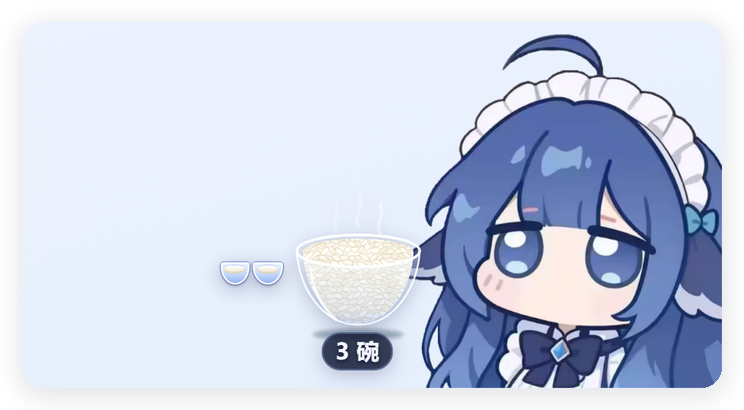
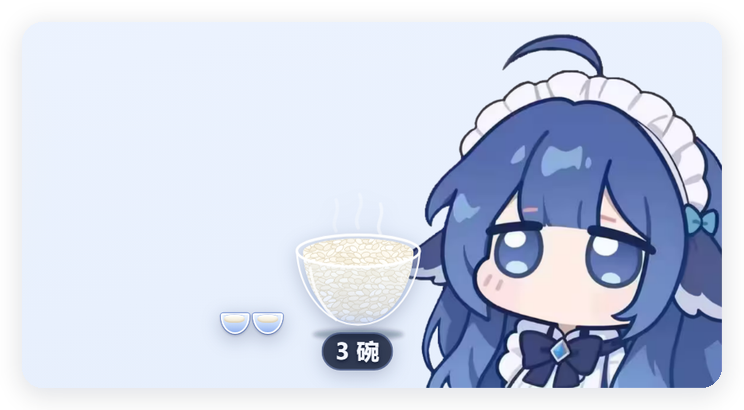
feat: v0.5.4 碗位和主碗同一桌面水平线 + 饿坏了更惨（眼泪/标签/更灰）

diff --git a/assets/client.js b/assets/client.js
@@ -209,6 +209,7 @@
     starveTimer: null,
     starveLoop: null,
     lastStarve: '',
+    starveDrops: [],
     bubbleTimer: null,
     riceTimer: null,
     pourTimer: null,
@@ -912,6 +913,36 @@
     if (rt.layer) rt.layer.classList.remove('dshwr-beg', 'dshwr-starving');
     var img = hungerImg();
     if (img) img.classList.remove('dshwr-beg-img', 'dshwr-starve-img');
+    removeStarveDrops();
+    if (rt.mounted && !rt.eatBusy && !rt.eatQueue.length) setLabel(liveRemain());
+  }
+
+  function removeStarveDrops() {
+    if (!rt.starveDrops || !rt.starveDrops.length) return;
+    for (var i = 0; i < rt.starveDrops.length; i++) {
+      var el = rt.starveDrops[i];
+      if (el && el.parentNode) el.parentNode.removeChild(el);
+    }
+    rt.starveDrops = [];
+  }
+
+  /** 饿坏了：在眼睛下面挂两滴小眼泪 */
+  function spawnStarveDrops() {
+    if (!rt.layer || !rt.els || !rt.mounted) return;
+    removeStarveDrops();
+    layoutMouth();
+    if (!rt.mouth) return;
+    for (var i = 0; i < 2; i++) {
+      var el = document.createElement('span');
+      el.className = 'dshwr-starve-drop';
+      var dx = (i === 0 ? -0.78 : 0.78) * rt.mouth.w;
+      var dy = -rt.mouth.h * (i === 0 ? 0.9 : 0.75);
+      el.style.left = (rt.mouth.x + dx).toFixed(1) + 'px';
+      el.style.top = (rt.mouth.y + dy).toFixed(1) + 'px';
+      el.style.animationDelay = (i * 1.15).toFixed(2) + 's';
+      rt.layer.appendChild(el);
+      rt.starveDrops.push(el);
+    }
   }
 
   function hungerImg() {
@@ -978,7 +1009,12 @@
     rt.begDone = true;
     if (rt.layer) rt.layer.classList.add('dshwr-starving');
     var img = hungerImg();
-    if (img) img.classList.add('dshwr-starve-img');
+    if (img) {
+      img.classList.remove('dshwr-beg-img');
+      img.classList.add('dshwr-starve-img');
+    }
+    spawnStarveDrops();
+    setLabel(0);
     starvePulse();
     if (rt.starveLoop) clearInterval(rt.starveLoop);
     rt.starveLoop = setInterval(starvePulse, Math.max(8000, Number(rt.config.starveIntervalMs) || 30000));
@@ -1195,7 +1231,7 @@
   function setLabel(remain) {
     if (!rt.els || !rt.els.label) return;
     var text = '';
-    if (rt.settings.label !== false) text = remain > 0 ? bowlText(remain) : '没饭了';
+    if (rt.settings.label !== false) text = remain > 0 ? bowlText(remain) : (rt.starving ? '饿坏了…' : '没饭了');
     rt.els.label.textContent = text;
     var box = rt.els.label.parentNode;
     if (box) box.hidden = !text;
@@ -1284,7 +1320,7 @@
     if (!rt.els) return;
     var remaining = liveRemain();
     var tank = tankOf(activeSid());
-    var html = '<div class="dshwr-set-title"><span class="dshwr-unflip">白饭预言家</span><small>v0.5.3</small></div>';
+    var html = '<div class="dshwr-set-title"><span class="dshwr-unflip">白饭预言家</span><small>v0.5.4</small></div>';
     html += setRow('begging', '没饭时讨饭', rt.settings.begging);
     html += setRow('eat', '吃饭动作（嘴 / 嚼）', rt.settings.eat);
     html += setRow('sound', '吃饭音效', rt.settings.sound);

diff --git a/assets/client.css b/assets/client.css
@@ -711,7 +711,7 @@
   position: absolute;
   left: auto;
   right: 101%;
-  bottom: 40%;
+  bottom: 4%;
   transform: none;
   display: flex;
   flex-direction: row;
@@ -804,20 +804,41 @@
 }
 
 
-/* ---------- v0.5.3：饿坏了 ---------- */
+/* ---------- v0.5.3 / v0.5.4：饿坏了（更惨一点） ---------- */
 .dshwr-starve-img {
-  filter: saturate(0.5) brightness(0.96);
-  animation: dshwr-starve-sway 4.6s ease-in-out infinite;
+  filter: saturate(0.26) brightness(0.9) contrast(0.98);
+  animation: dshwr-starve-sway 5.4s ease-in-out infinite;
   transform-origin: 50% 100%;
 }
 @keyframes dshwr-starve-sway {
   0%, 100% { transform: translateY(0) rotate(0); }
-  30% { transform: translateY(1%) rotate(-1.1deg); }
-  70% { transform: translateY(1.4%) rotate(1deg); }
+  32% { transform: translateY(2.1%) rotate(-1.9deg); }
+  68% { transform: translateY(2.6%) rotate(1.7deg); }
+}
+.dshwr-starve-drop {
+  position: absolute;
+  z-index: 9;
+  width: 0.5em;
+  height: 0.7em;
+  border-radius: 0 62% 62% 62%;
+  background: linear-gradient(160deg, #eaf8ff, #8ac9f8 65%, #5fa9ee);
+  box-shadow: 0 0 0.14em rgba(255, 255, 255, 0.95), 0 0.05em 0.14em rgba(40, 90, 160, 0.4);
+  opacity: 0.92;
+  pointer-events: none;
+  animation: dshwr-starve-drop 2.4s ease-in infinite;
+}
+@keyframes dshwr-starve-drop {
+  0% { opacity: 0.92; transform: translateY(0) scale(0.9); }
+  65% { opacity: 0.8; transform: translateY(0.62em) scale(1); }
+  100% { opacity: 0; transform: translateY(1.15em) scale(1); }
 }
 .dshwr-starving .dshwr-bowl-svg {
-  opacity: 0.6;
-  filter: saturate(0.55);
+  opacity: 0.5;
+  filter: saturate(0.4);
+  animation-duration: 5.5s;
+}
+.dshwr-starving .dshwr-label {
+  background: rgba(96, 62, 24, 0.85);
 }
 @media (prefers-reduced-motion: reduce) {
   .dshwr-starve-img { animation: none; }

diff --git a/README.md b/README.md
@@ -71,8 +71,8 @@ dsh plugin --profile web add link:C:/path/to/dsh-whale-ricebowl
 1. **装饭**：点饭碗 → 装小碗（25 万 token）/ 半碗（50 万）/ 一碗（100 万）。对话开始前也可以先装：这时饭先存在「待装饭」里，第一轮对话开始时自动倒进这个对话的锅。
 2. **每轮**：DSH `turn/start` 后鲸鱼开始干活；真实 token 到账时它张嘴吃饭，米饭一点点变少。
 3. **每轮结束**：`turn/end` 后气泡报账，例如「这轮吃了 5.4K · 剩 3 碗」；短回合也会补演至少一口再报账。
-4. **多碗**：1 碗 = 100 万 token；主碗 + 最多 4 个碗位 = 最多显示 5 碗（碗位排在主碗的**左侧**、向左延伸；打开装饭菜单时会自动隐藏）；超过 5 碗继续记账但 UI 不变；下方标签显示剩余碗数。
-5. **讨饭 → 饿坏了**：剩 0 时自动讨饭——先讨饭 **10 次**（立绘上浮 / 歪头、张嘴「啊——」、气泡间隔出现 / 消失，文案随机且不连续两次相同）；之后安静等 **10 分钟**，自然过渡成「**饿坏了**」：立绘发灰耷拉、慢悠悠地晃，气泡变得有气无力；随时点碗加饭，喂饭就立刻恢复正常。
+4. **多碗**：1 碗 = 100 万 token；主碗 + 最多 4 个碗位 = 最多显示 5 碗（碗位和主碗**放在同一条桌面水平线上**，排在主碗**左侧**、向左延伸；打开装饭菜单时会自动隐藏）；超过 5 碗继续记账但 UI 不变；下方标签显示剩余碗数。
+5. **讨饭 → 饿坏了**：剩 0 时自动讨饭——先讨饭 **10 次**（立绘上浮 / 歪头、张嘴「啊——」、气泡间隔出现 / 消失，文案随机且不连续两次相同）；之后安静等 **10 分钟**，自然过渡成「**饿坏了**」：立绘发灰耷拉、慢悠悠地晃，眼睛下面挂两滴小眼泪、标签变成「饿坏了…」，气泡变得有气无力；随时点碗加饭，喂饭就立刻恢复正常。
 6. **设置**：右键饭碗 → 开关「没饭时讨饭 / 吃饭动作（嘴 / 嚼）/ 吃饭音效 / 米粒特效 / 数字标签」，查看「本对话饭账」（已装 / 已吃 / 剩），或「清空饭账」。
 7. **刷新 / 重启**：饭账存在浏览器 localStorage；资源都是 `no-store`，改样式刷新页面即可。
 

diff --git a/README-En.md b/README-En.md
@@ -53,8 +53,8 @@ Desktop (Electron): the host HTML is served statically, so this plugin also regi
 1. **Load rice**: click the bowl → load a small bowl (250K tokens) / half bowl (500K) / one bowl (1M). You can also load before a conversation — it is parked as "pending rice" and poured into the next conversation's pot when its first turn starts.
 2. **Each turn**: after `turn/start`, real usage makes the whale eat; the rice level drops.
 3. **Turn end**: a bubble reports e.g. "ate 5.4K · 3 bowls left". Short turns are replayed so at least one bite is always shown before the report.
-4. **Bowls**: 1 bowl = 1,000,000 tokens; main bowl + 4 slots = 5 visible bowls max (slots sit to the **left** of the main bowl and hide while the feed menu is open). More than 5 bowls keeps counting but the UI stays the same.
-5. **Begging → starving**: at zero the whale begs 10 times (bobs / tilts, opens its mouth, random bubbles, never the same twice in a row). After that it waits quietly for 10 minutes and then becomes "starving" — desaturated, droopy sway, weak bubbles. Feed it any time and it recovers instantly.
+4. **Bowls**: 1 bowl = 1,000,000 tokens; main bowl + 4 slots = 5 visible bowls max (slots sit on the **same table line** as the main bowl, to its **left**, and hide while the feed menu is open). More than 5 bowls keeps counting but the UI stays the same.
+5. **Begging → starving**: at zero the whale begs 10 times (bobs / tilts, opens its mouth, random bubbles, never the same twice in a row). After that it waits quietly for 10 minutes and then becomes "starving" — desaturated, droopy sway, two little tears, a "starving…" label and weak bubbles. Feed it any time and it recovers instantly.
 6. **Settings**: right-click the bowl → toggles (begging / eating animation / sound / rice particles / number label), per-conversation ledger (loaded / eaten / remaining), and "clear ledger".
 7. **Refresh**: the ledger lives in localStorage; assets are served `no-store`.
 

diff --git a/docs/tech-notes.md b/docs/tech-notes.md
@@ -58,7 +58,7 @@ v0.5.0 的做法：
 
 * 触发：`updateBegging()` 在有饭量 / 正在吃饭 / 回合进行中时停掉；否则（`settings.begging` 开启且剩余 ≤ 0）先等 `begDelayMs`（9s），之后每 `begIntervalMs`（7s）来一次 `begPulse()`。
 * **前 10 次**（`begTimes`）：每次气泡显示 `begShowMs` 并自动消失；同时给宿主 `img` 临时加 `.dshwr-beg-img`（上浮 / 歪头 1.7s）、层上加 `.dshwr-beg`（碗发光 1.5s）、嘴张开「啊——」0.9s。文案从 `lines.beg` 随机取，且不连续重复（`rt.lastBeg`）。
-* 10 次之后：停止气泡，安静等待 `starveDelayMs`（默认 10 分钟），然后 `enterStarving()`：层上加 `.dshwr-starving`、`img` 加 `.dshwr-starve-img`（灰一点 + 慢悠悠耷拉晃动）、气泡换成 `lines.starve` 池、间隔 `starveIntervalMs`（默认 30s）。
+* 10 次之后：停止气泡，安静等待 `starveDelayMs`（默认 10 分钟），然后 `enterStarving()`：层上加 `.dshwr-starving`、`img` 加 `.dshwr-starve-img`（变灰 + 慢悠悠耷拉晃动）、眼睛下面挂两滴小眼泪（`.dshwr-starve-drop`，由 `spawnStarveDrops()` 按嘴部坐标生成）、标签变成「饿坏了…」、气泡换成 `lines.starve` 池、间隔 `starveIntervalMs`（默认 30s）。
 * 加饭 / 重新有饭后 `stopBegging()` 立刻清掉所有定时器、计数和临时类，恢复正常。
 * 没饭时**不再播吃饭动作**：`enqueueEat()` 先看视觉剩余，剩余 ≤ 0 就直接跳过演出（本轮消耗照常记账、报账仍显示「吃完啦」）。
 

diff --git a/CHANGELOG.md b/CHANGELOG.md
@@ -1,5 +1,11 @@
 # Changelog
 
+## 0.5.4 — 2026-10-18
+
+* 碗位（小碗图标）和主碗放到**同一条桌面水平线**上，排在主碗左侧，像一排碗放在同一张桌子上。
+* 「饿坏了」状态再惨一点：立绘更灰、耷拉更明显、眼睛下面挂两滴小眼泪、标签变成「饿坏了…」；加饭立刻恢复（眼泪和状态一起清掉）。
+* 截图同步更新（待饭、讨饭、饿坏了等）。
+
 ## 0.5.3 — 2026-10-18
 
 * **没饭时不再播吃饭动作**：碗空之后本轮消耗照常记账，但鲸鱼不会再嚼（清空饭账后也不会再触发吃饭动画）。
